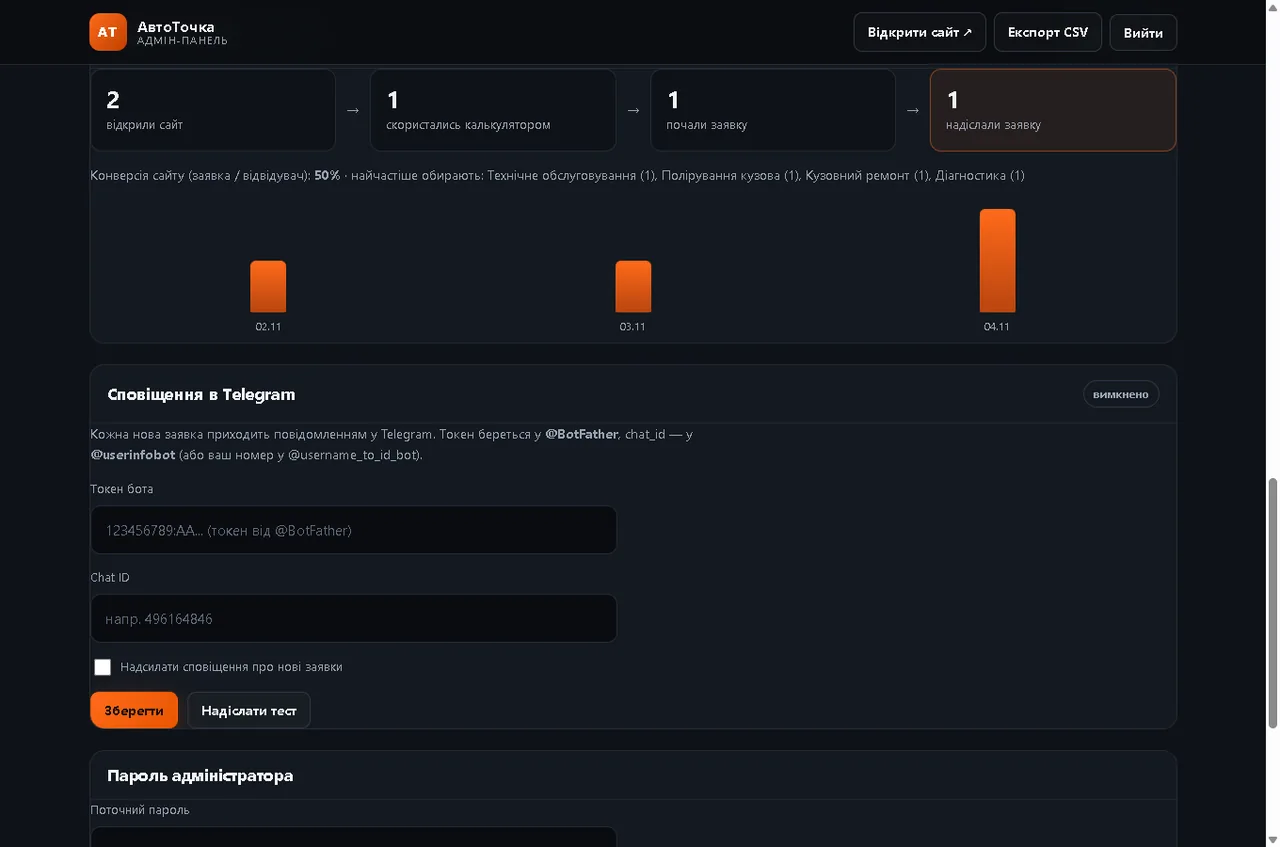
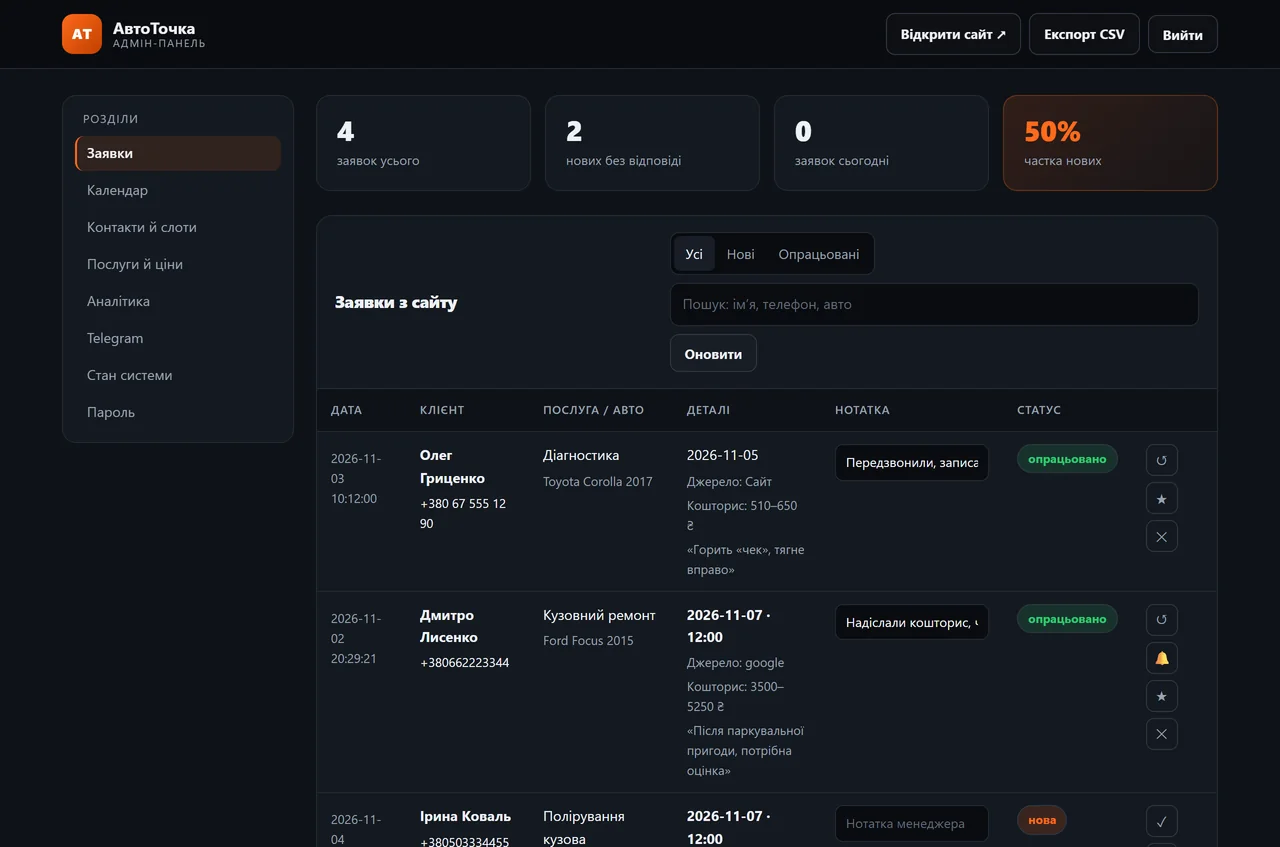
Картинки и подписи приведены в соответствие: марки, блок сравнения, свежие снимки портфолио
- марки: Volkswagen/Toyota делили фото мотора, Skoda/Renault — колесо.
  Теперь у всех шести марок своё фото (мотор, мастер, колесо, покраска, интерьер, полировка)
- блок «До і після» на главной показывал одно и то же фото с двух сторон —
  ползунок ничего не менял. Переименован в «Крупним планом», сравнение убрано,
  обе фотографии показаны как есть; код ползунка оставлен на будущее (реальных пар нет,
  подделывать «до» нельзя)
- подписи «· Skoda Octavia» и «· Toyota RAV4» убраны: на фото другие машины
  (на фаре читается TOYOTA, салон похож на Porsche 911) — автосервисник заметил бы
- снимки в портфолио пересняты с живого сайта (были от 06.11, устарели)
- test_flow.py +4 проверки (220): фото услуг, фото марок, нет сравнения с одинаковыми
  фото, нет обещания «До і після» без пары
- прогоны: 220 PASS / 0 FAIL, W3C 20 страниц 0/0, axe 0 нарушений, якоря 88/0

diff --git a/templates/index.html b/templates/index.html
@@ -153,40 +153,22 @@
       {{GALLERY}}
     </div>
 
-    <h3 class="ba-title">До і після</h3>
+    <h3 class="ba-title">Крупним планом</h3>
     <div class="ba-grid">
       <figure class="ba-block">
         <div class="ba-frame">
-          <img class="ba-img" src="/static/img/polish.webp" width="1413" height="1060"
+          <img class="ba-img" src="/static/img/polish-sm.webp" width="760" height="570"
                alt="Кузов після полірування — АвтоТочка" loading="lazy" decoding="async">
-          <div class="ba-before"><img class="ba-img ba-img--before" src="/static/img/polish.webp"
-               width="1413" height="1060" alt="Кузов до полірування" loading="lazy"
-               decoding="async" aria-hidden="true"></div>
-          <div class="ba-handle" role="slider" aria-label="Порівняння до і після" tabindex="0"
-               aria-valuemin="0" aria-valuemax="100" aria-valuenow="50">
-            <svg viewBox="0 0 24 24" fill="none" stroke="currentColor" stroke-width="2"><path d="M9 6l-4 6 4 6M15 6l4 6-4 6"/></svg>
-          </div>
-          <span class="ba-tag ba-tag-l">до</span>
-          <span class="ba-tag ba-tag-r">після</span>
         </div>
-        <figcaption>Полірування кузова · Skoda Octavia</figcaption>
+        <figcaption>Полірування кузова</figcaption>
       </figure>
 
       <figure class="ba-block">
         <div class="ba-frame">
-          <img class="ba-img" src="/static/img/interior.webp" width="1422" height="1067"
+          <img class="ba-img" src="/static/img/interior-sm.webp" width="760" height="570"
                alt="Салон після хімчистки — АвтоТочка" loading="lazy" decoding="async">
-          <div class="ba-before"><img class="ba-img ba-img--before" src="/static/img/interior.webp"
-               width="1422" height="1067" alt="Салон до хімчистки" loading="lazy"
-               decoding="async" aria-hidden="true"></div>
-          <div class="ba-handle" role="slider" aria-label="Порівняння до і після" tabindex="0"
-               aria-valuemin="0" aria-valuemax="100" aria-valuenow="50">
-            <svg viewBox="0 0 24 24" fill="none" stroke="currentColor" stroke-width="2"><path d="M9 6l-4 6 4 6M15 6l4 6-4 6"/></svg>
-          </div>
-          <span class="ba-tag ba-tag-l">до</span>
-          <span class="ba-tag ba-tag-r">після</span>
         </div>
-        <figcaption>Хімчистка салону · Toyota RAV4</figcaption>
+        <figcaption>Хімчистка салону</figcaption>
       </figure>
     </div>
   </div>

diff --git a/test_flow.py b/test_flow.py
@@ -311,6 +311,28 @@ check("усі сервісні сторінки мають картинку", al
 check("сервісні сторінки віддають зменшені картинки (-sm)",
       all(v and v.endswith("-sm.webp") for v in _svc_photos.values()), _svc_photos)
 
+_brand_photos = {}
+for _slug in ("volkswagen", "toyota", "skoda", "bmw", "renault", "nissan"):
+    _st, _h, _ = get("/brands/" + _slug)
+    _mm = re.search(r'<img src="(/static/img/[^"]+)"', _h)
+    _brand_photos[_slug] = _mm.group(1) if _mm else None
+_repeats_b = {v: [k for k, x in _brand_photos.items() if x == v]
+              for v in set(_brand_photos.values()) if list(_brand_photos.values()).count(v) > 1}
+check("у кожної марки своя картинка", not _repeats_b, _repeats_b or "повторів немає")
+check("усі сторінки марок мають картинку", all(_brand_photos.values()), _brand_photos)
+
+# --- сравнение «до/після» нельзя показывать, если обе картинки одинаковые ---
+_st, _home, _ = get("/")
+_bad_pairs = []
+for _b in re.findall(r'<figure class="ba-block">(.*?)</figure>', _home, re.S):
+    _after = re.search(r'class="ba-img"[^>]*src="([^"]+)"', _b)
+    _before = re.search(r'ba-before"><img[^>]*src="([^"]+)"', _b)
+    if _before and _after and _before.group(1) == _after.group(1):
+        _bad_pairs.append(_after.group(1))
+check("порівняння «до/після» не показує ту саму картинку з двох боків", not _bad_pairs,
+      _bad_pairs or "таких блоків немає")
+check("на головній немає обіцянки «До і після» без справжньої пари фото", "До і після" not in _home)
+
 status, body, _ = get("/cases")
 check("сторінка портфоліо відкривається", status == 200 and "Портфоліо" in body, status)
 check("у портфоліо два кейси для автобізнесу", body.count('class="case"') == 2, body.count('class="case"'))

diff --git a/content.py b/content.py
@@ -215,7 +215,7 @@ BRANDS = {
         "title": "Toyota",
         "models": ["Corolla", "Camry", "RAV4", "Auris", "Land Cruiser", "Prius"],
         "note": "Працюємо з гібридами: обслуговування батареї, перевірка інвертора, заміна рідин.",
-        "photo": "engine",
+        "photo": "master",
     },
     "skoda": {
         "title": "Skoda",
@@ -233,7 +233,7 @@ BRANDS = {
         "title": "Renault",
         "models": ["Megane", "Logan", "Duster", "Sandero", "Kaptur", "Arkana"],
         "note": "Обслуговування бюджетних моделей без «перепродажу» зайвих робіт — частий запит.",
-        "photo": "tires",
+        "photo": "interior",
     },
     "nissan": {
         "title": "Nissan",

diff --git a/CHECKLIST.md b/CHECKLIST.md
@@ -494,3 +494,26 @@ powershell -NoProfile -Command "Get-CimInstance Win32_Process -Filter \"Name='py
 і подивитися вміст. Одного разу перевірка пройшла «зеленою» лише тому, що підміна в файлі
 не доїхала до сервера — тобто тест нічого не перевіряв.
 
+## Зроблено 09.11.2026 (друга частина): картинки відповідають підписам
+
+Перевірено кожну картинку на кожній сторінці: що на фото і що про нього написано.
+
+| Що було не так | Що зроблено |
+|---|---|
+| «Технічне обслуговування» і «Шиномонтаж» — одна картинка (зміна колеса) | ТО -> мотор (масло, фільтри, регламент), шиномонтаж лишився з колесом |
+| Тоді мотор збігався б у ТО і діагностики | Діагностика -> майстер із деталлю за верстаком; усі шість послуг мають різні фото |
+| Volkswagen і Toyota — те саме фото; Skoda і Renault — те саме | Усі шість марок мають власне фото (мотор, майстер, колесо, кабіна, інтер'єр, полірування) |
+| Блок «До і після»: з обох боків стояло те саме фото — повзунок нічого не міняв | Блок перейменовано на «Крупним планом», повзунок прибрано, дві фотографії показано як є. Справжньої пари «до/після» в нас немає, а малювати фальшиве «до» не можна |
+| Підписи «· Skoda Octavia» і «· Toyota RAV4» | Назви машин прибрано: на фото інші авто (перевірено зором — на фарі видно напис TOYOTA, салон схожий на Porsche 911). Клієнт-автосервісник таке помітив би |
+| Сторінки послуг і марок віддавали повні картинки (79-161 КБ) у блок 560 точок | Віддаються зменшені версії (25-56 КБ) з правильними розмірами 760x570 |
+| У портфоліо — знімки сайту від 06.11, застарілі | Переснято 09.11 з живого сайту: головна 1280x800 і адмінка 1280x847 |
+| Сервер не підхоплював правки content.py | Перезапуск після змін — інструкція нижче |
+
+Службове: `static/app.js` і `static/style.css` досі мають код повзунка «до/після»
+(`.ba-before`, `.ba-handle`, `.ba-tag`) — лишено, щоб легко повернути блок, коли з'являться
+справжні пари фото. Код без розмітки мовчки не робить нічого (перевірка на null є).
+
+Автоперевірки після правок: `test_flow.py` 220 пройдено / 0 провалено (додано 4 перевірки:
+картинки послуг, картинки марок, «до/після» не показує одне фото двічі, немає обіцянки
+«До і після»), W3C 20 сторінок 0/0, axe 18 прогонів 0 порушень, якорі 88/0.
+
